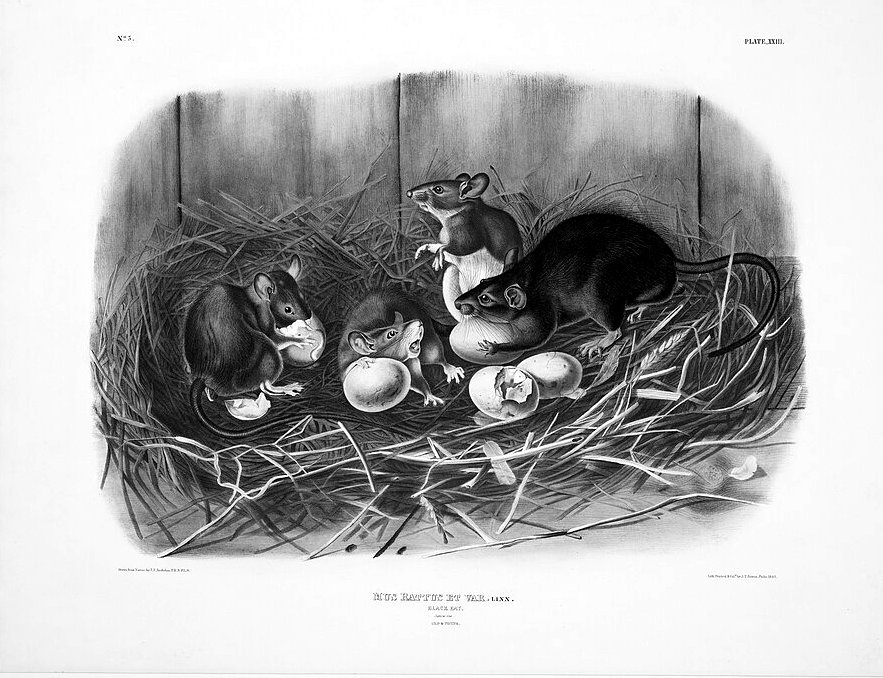
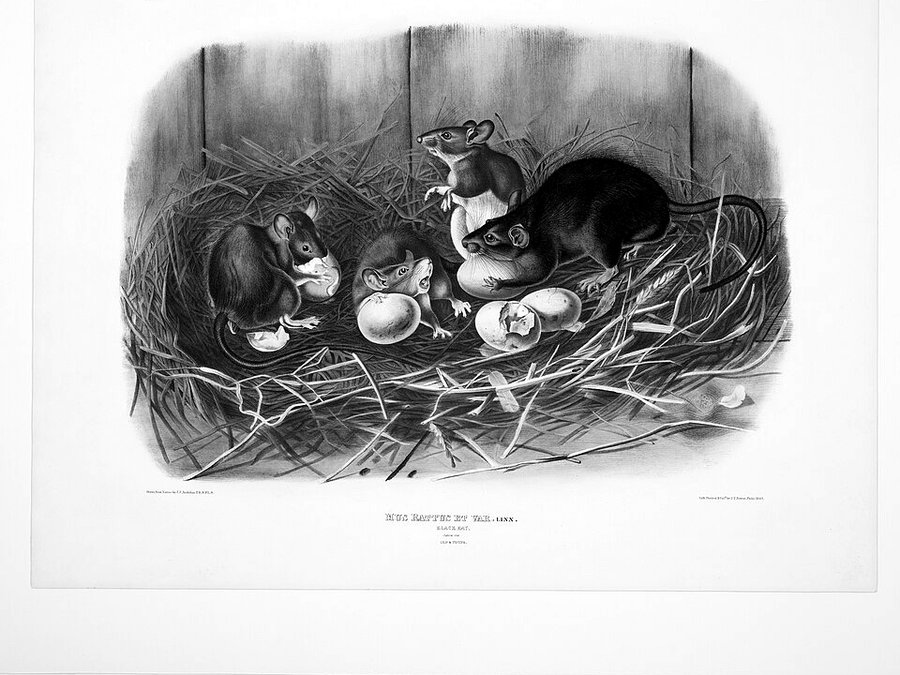
Frame card engravings to a consistent 4:3 window at every viewport

diff --git a/src/styles/mystery.css b/src/styles/mystery.css
@@ -993,6 +993,10 @@
   background: var(--surface-raised);
   padding: 5px;
   overflow: hidden;
+  flex: 0 0 auto;
+  align-self: center;
+  width: min(100%, 280px);
+  aspect-ratio: 4 / 3;
 }
 
 .woodcut-img {
